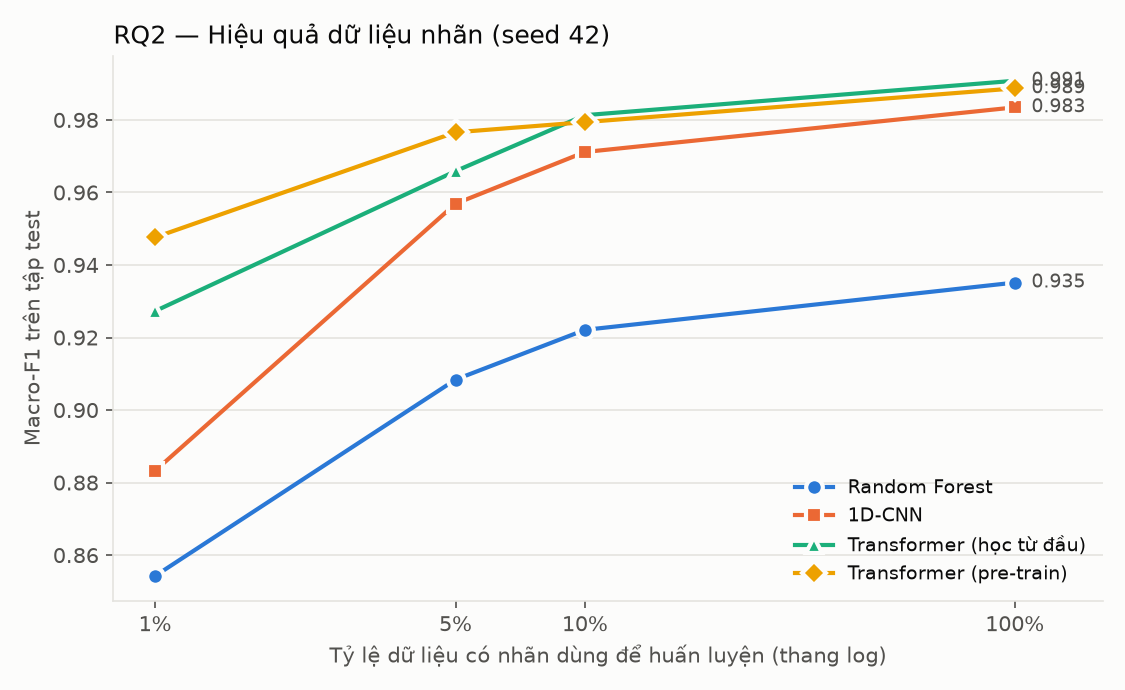
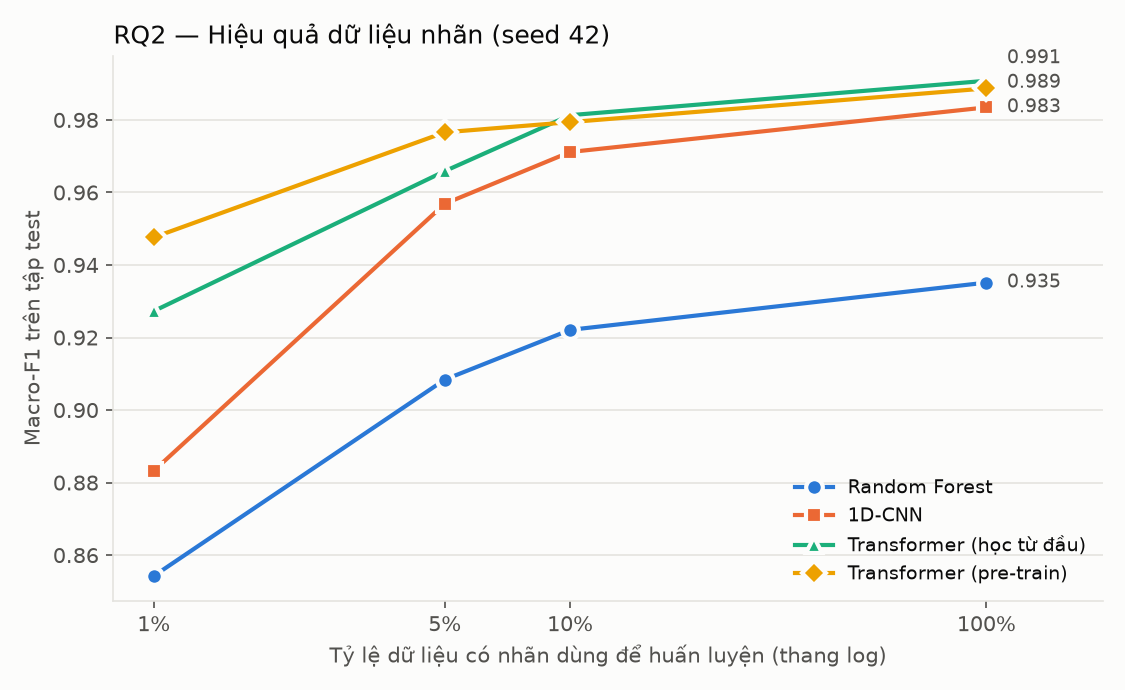
results: RQ2 complete (seed 42); fix overlapping end labels in label-efficiency chart

diff --git a/src/etc/eval/report.py b/src/etc/eval/report.py
@@ -127,6 +127,7 @@ def plot_rq2(table: dict[str, dict[float, float]], path: Path) -> bool:
         return False
     fig, ax = plt.subplots(figsize=(7.5, 4.6), facecolor=SURFACE)
     ax.set_facecolor(SURFACE)
+    ends: list[tuple[float, float, str]] = []
     for model in RQ2_MODELS:
         pts = sorted(table.get(model, {}).items())
         if not pts:
@@ -134,12 +135,20 @@ def plot_rq2(table: dict[str, dict[float, float]], path: Path) -> bool:
         xs, ys = zip(*pts)
         ax.plot(xs, ys, color=COLORS[model], linewidth=2, marker=MARKERS[model], markersize=8,
                 markeredgecolor=SURFACE, markeredgewidth=2, label=LABEL[model], zorder=3)
-        ax.annotate(f"{ys[-1]:.3f}", (xs[-1], ys[-1]), xytext=(8, 0), textcoords="offset points",
+        ends.append((xs[-1], ys[-1], f"{ys[-1]:.3f}"))
+    # End-of-line value labels, nudged apart vertically so close values never overlap.
+    lo, hi = ax.get_ylim()
+    gap = 0.045 * (hi - lo)
+    placed: list[float] = []
+    for x, y, text in sorted(ends, key=lambda e: e[1]):
+        ty = max(y, placed[-1] + gap) if placed else y
+        placed.append(ty)
+        ax.annotate(text, (x, y), xytext=(x * 1.12, ty), textcoords="data",
                     va="center", fontsize=9, color=INK_MUTED)
     ax.set_xscale("log")
     ax.set_xticks(RQ2_FRACTIONS, ["1%", "5%", "10%", "100%"])
     ax.minorticks_off()
-    ax.set_xlim(0.008, 1.6)
+    ax.set_xlim(0.008, 1.9)
     ax.set_xlabel("Tỷ lệ dữ liệu có nhãn dùng để huấn luyện (thang log)", color=INK_MUTED)
     ax.set_ylabel("Macro-F1 trên tập test", color=INK_MUTED)
     ax.set_title("RQ2 — Hiệu quả dữ liệu nhãn (seed 42)", color=INK, loc="left")
